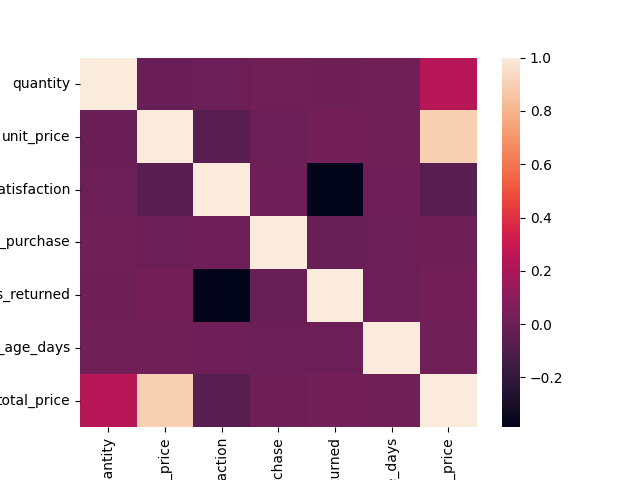
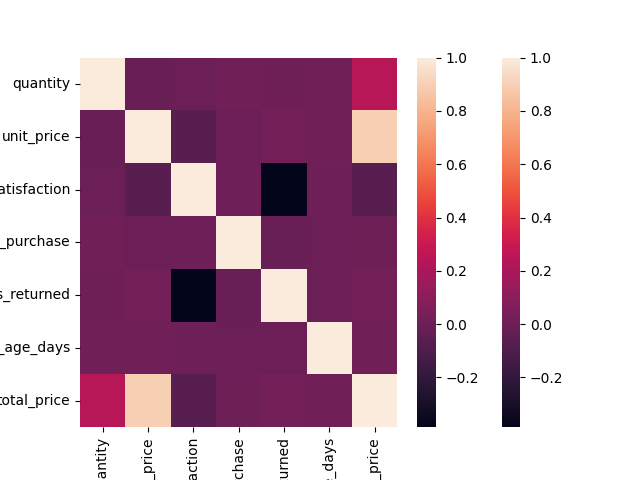
Data summary

diff --git a/App/TkinterFrames.py b/App/TkinterFrames.py
@@ -1,6 +1,7 @@
 import tkinter as tk
 from tkinter import ttk
 from tkinter.filedialog import askopenfilename
+from ttkbootstrap.scrolled import ScrolledText
 
 import pandas as pd
 from pandas.api.types import is_numeric_dtype
@@ -8,6 +9,7 @@ import matplotlib.pyplot as plt
 from PIL import ImageTk, Image
 import seaborn as sns
 import numpy as np
+import json
 import os
 
 #useful functions:
@@ -61,7 +63,7 @@ class DataVisualizer(ttk.Frame):
                 yticklabels=corr.columns.values).get_figure().savefig("temp.png")
 
             img = Image.open('temp.png')
-            img = img.resize((400, 400), Image.ANTIALIAS)
+            img = img.resize((500, 500), Image.LANCZOS)
             self.imgtk = ImageTk.PhotoImage(img)
             self.display_panel.config(image=self.imgtk)
         elif mode == 'scatter':
@@ -77,13 +79,10 @@ class DataPreview(ttk.Frame):
     def __init__(self, parent):
         super().__init__(parent)
 
-        self.data_label = ttk.Label(self, text='No data loaded')
-        self.data_label.config(width=200, font=("Courier", 7))
-        self.scrollbar = ttk.Scrollbar(self, orient='vertical')
-
-        self.scrollbar.pack()
+        self.data_label = ScrolledText(self, padding=5, height=10, width=70, vbar=True)
+        self.data_label.insert(tk.INSERT, "No data loaded", 'body')
+        self.data_label.tag_config('body', foreground="white")
         self.data_label.pack(side='top', fill='both', expand=True, padx=10)
-        self.data_label.configure(yscrollcommand=self.scrollbar.set)
 
     def update(self, df):
         new_text = ''
@@ -94,10 +93,43 @@ class DataPreview(ttk.Frame):
                 new_text += f' - Avg: {round(df[col].mean(), 2)}\n'
                 new_text += f' - Min: {df[col].min()}, Max: {df[col].max()}\n'
             else:
-                new_text += f' - Unique values: {" ".join(set([v for v in df[col]]))}\n'
+                new_text += f' - Number of unique items: {df[col].nunique()}\n'
                 
-        self.data_label.config(text=new_text)
+        self.data_label.delete('1.0', tk.END)
+        self.data_label.insert(tk.INSERT, new_text, 'body')
 
+
+class AxisSelection(ttk.Frame):
+    def __init__(self, parent, df):
+        super().__init__(parent)
+
+        options = [col for col in df.columns if is_numeric_dtype(df[col])]
+
+        self.x_option = tk.StringVar(self)
+        self.x_axis_select = ttk.OptionMenu(
+            self,
+            self.x_option,
+            'Select X Data',
+            *options,
+            command=self.options_changed
+        )
+        self.y_option = tk.StringVar(self)
+        self.y_axis_select = ttk.OptionMenu(
+            self,
+            self.y_option,
+            'Select Y Data',
+            *options,
+            command=self.options_changed
+        )
+
+        self.x_option.pack(side='left', fill='both', expand=True)
+        self.y_option.pack(side='right', fill='both', expand=True)
+
+    def get_options(self):
+        return
+
+    def options_changed(self):
+        pass
 
 #all the buttons to make stuff happen
 class SelectionPanel(ttk.Frame):
@@ -140,7 +172,7 @@ class SelectionPanel(ttk.Frame):
         )
 
         #right side_items
-        
+        #TODO: maybe put in a left side
 
         left_side.pack(side='left', fill='both', expand=True)
         right_side.pack(side='right', fill='both', expand=True)

diff --git a/App/main.py b/App/main.py
@@ -2,10 +2,11 @@ import tkinter as tk
 import sv_ttk #dark ttk theme
 from TkinterFrames import *
 
-root = tk.Tk()
-root.title('Data analysis program')
-root.geometry("1020x500")
+if __name__ == '__main__':
+    root = tk.Tk()
+    root.title('Data analysis program')
+    root.geometry("1120x600")
 
-App(root).pack(side="top", fill="both", expand=True)
-sv_ttk.set_theme("dark") #make the app evil (dark theme)
-root.mainloop()
+    App(root).pack(side="top", fill="both", expand=True)
+    sv_ttk.set_theme("dark") #make the app evil (dark theme)
+    root.mainloop()
